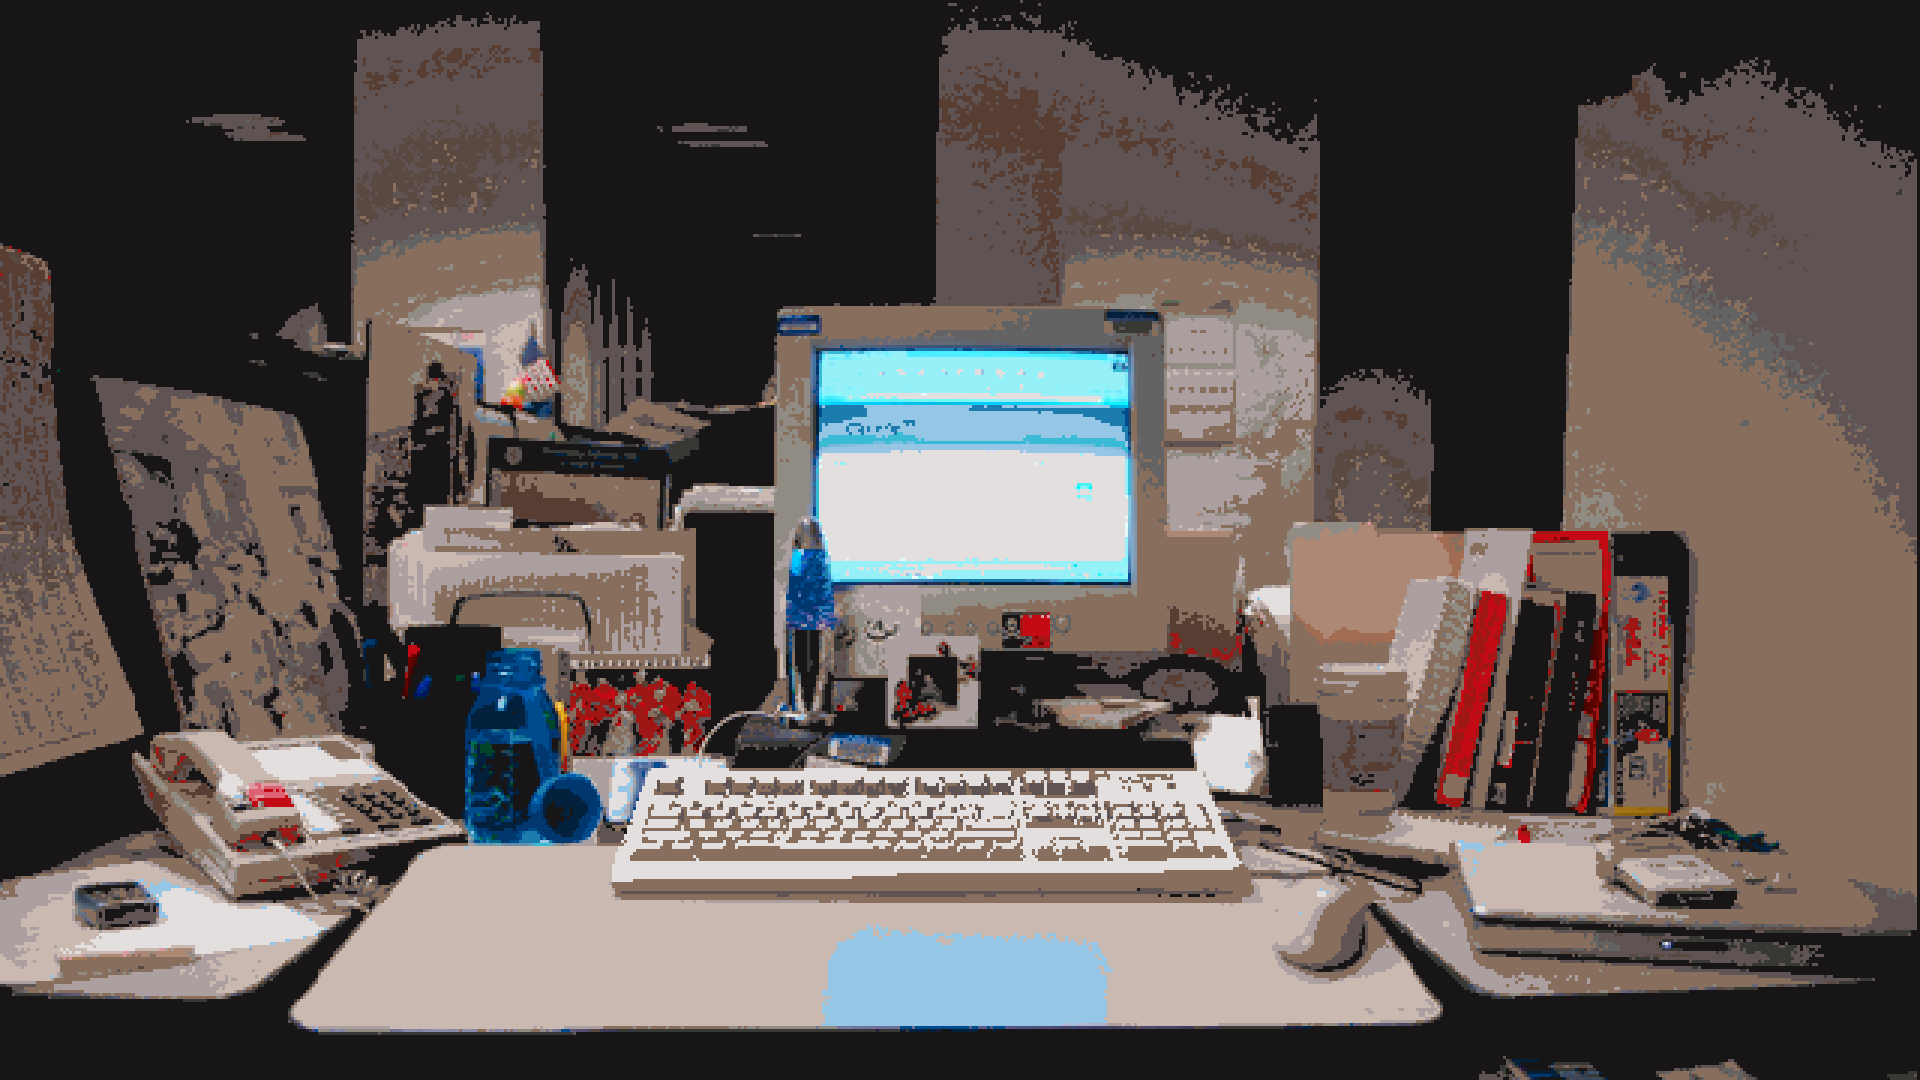
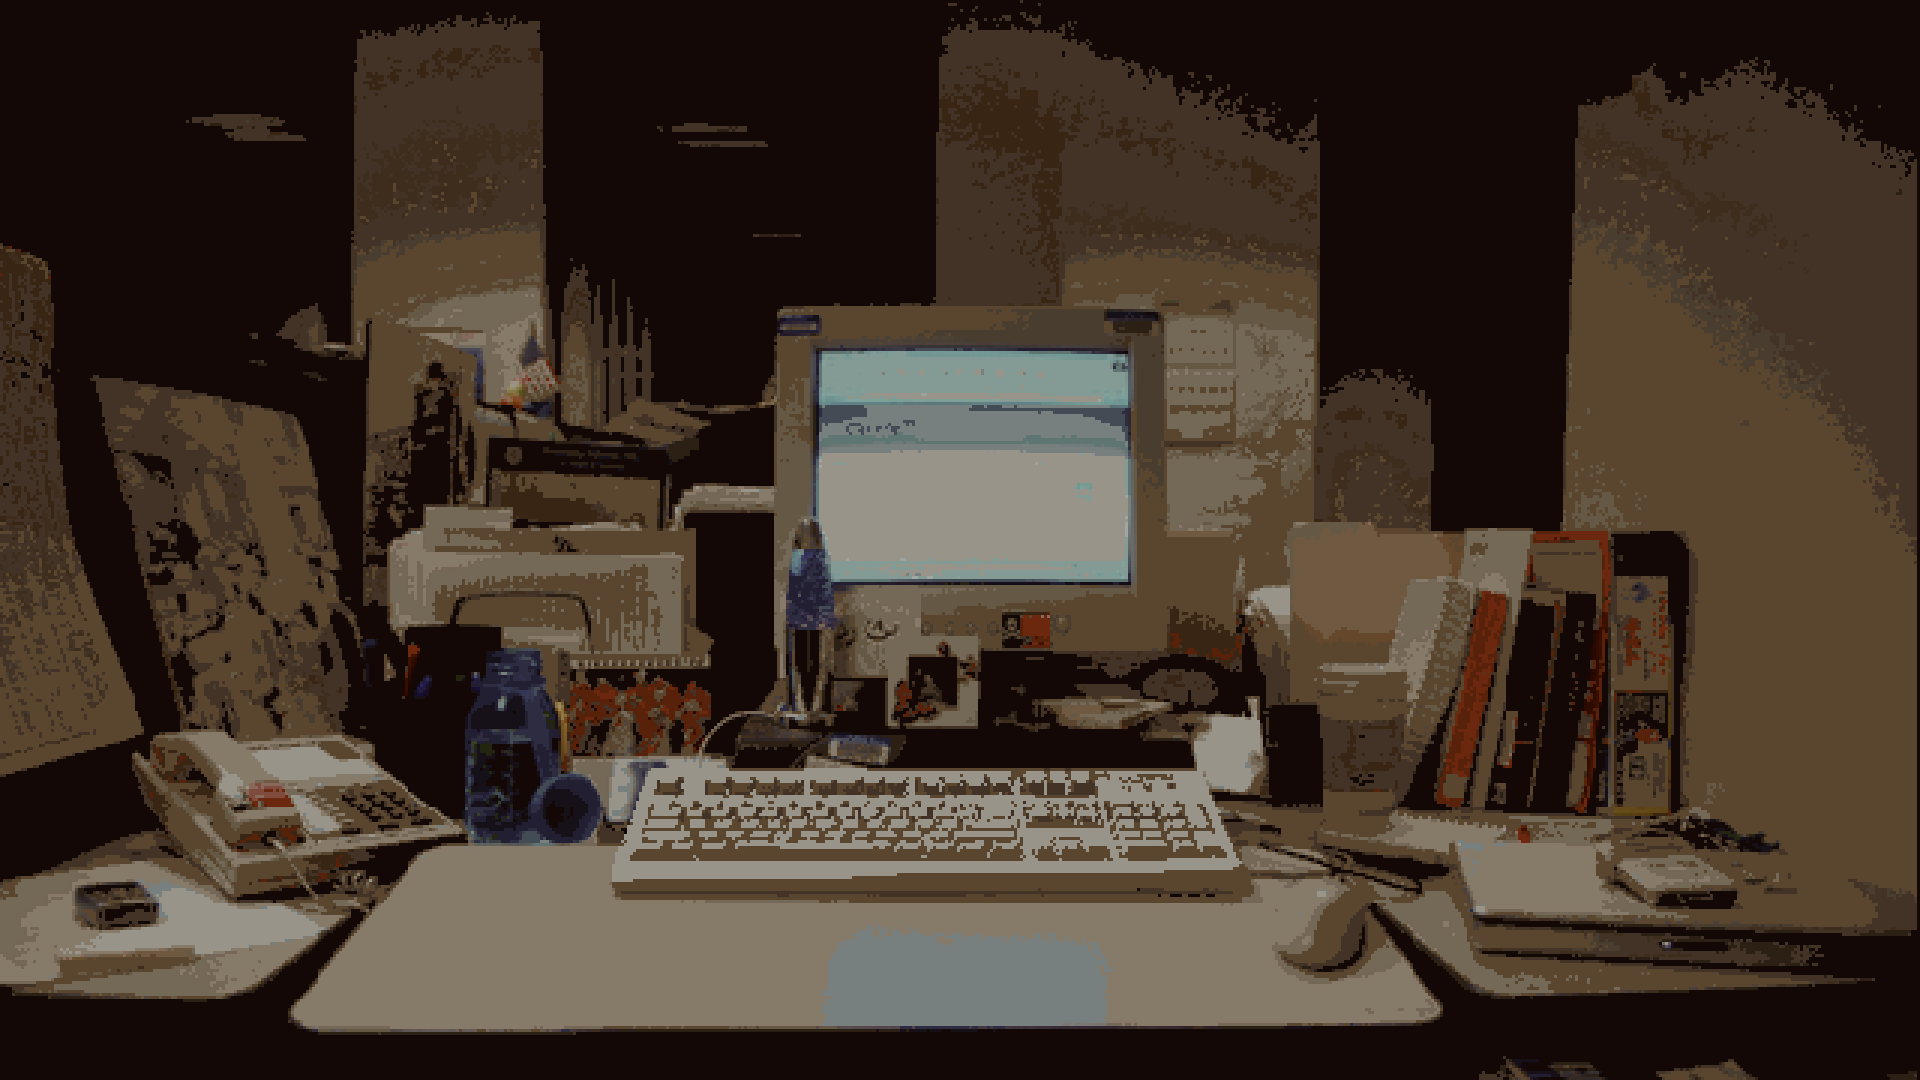
Changed BG image for GTMK 2021 section.

diff --git a/Website Portfolio/css/programmingProjects.css b/Website Portfolio/css/programmingProjects.css
@@ -185,6 +185,7 @@ body {
     background-position: center center;
     background-repeat: no-repeat;
     background-size: cover;
+    background-color:rgba(0, 0, 0, 0.6);
     transition: 1s;
 }
 
